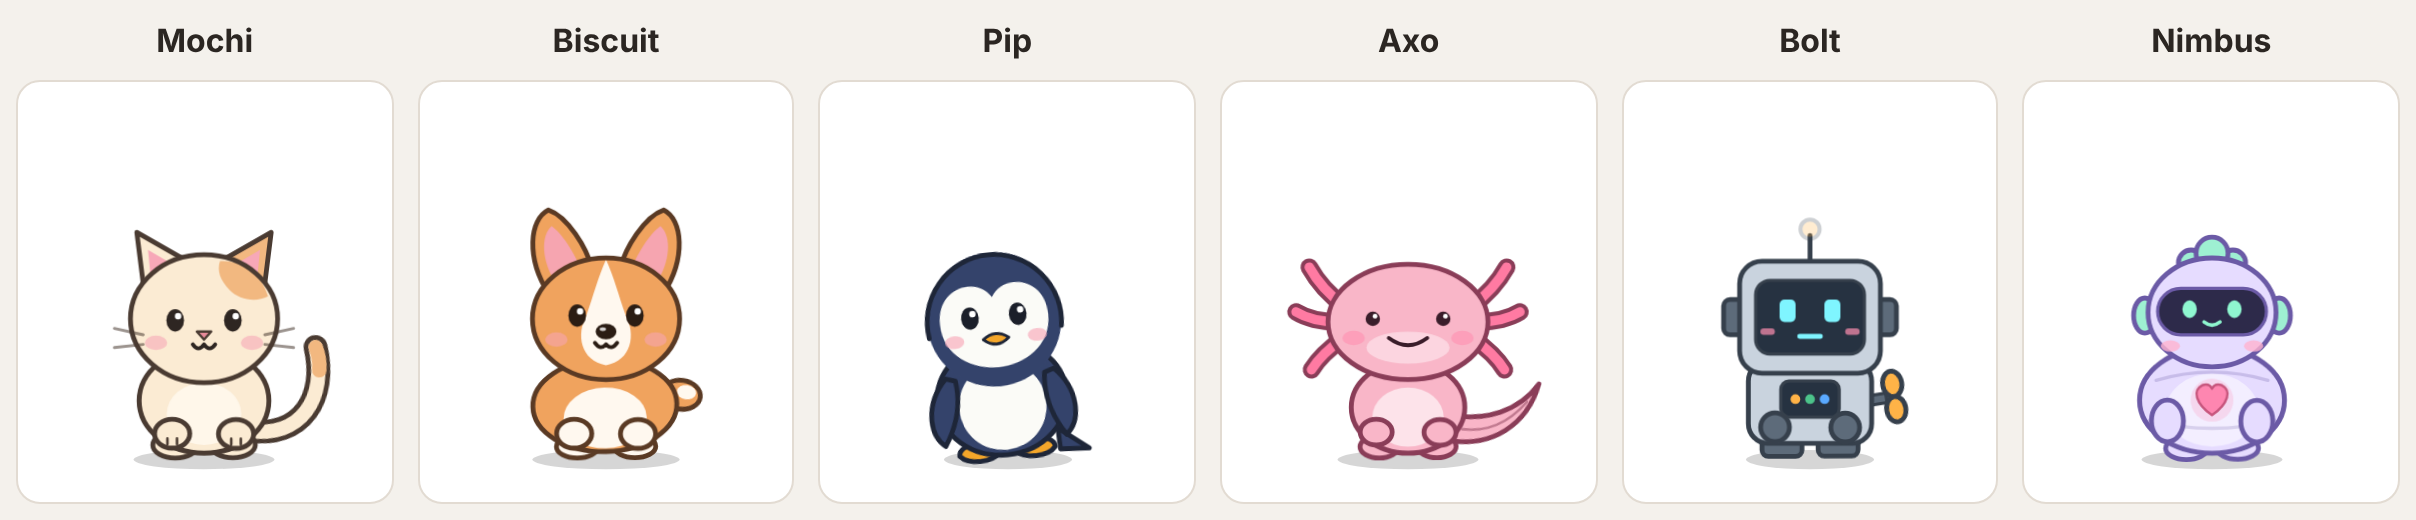
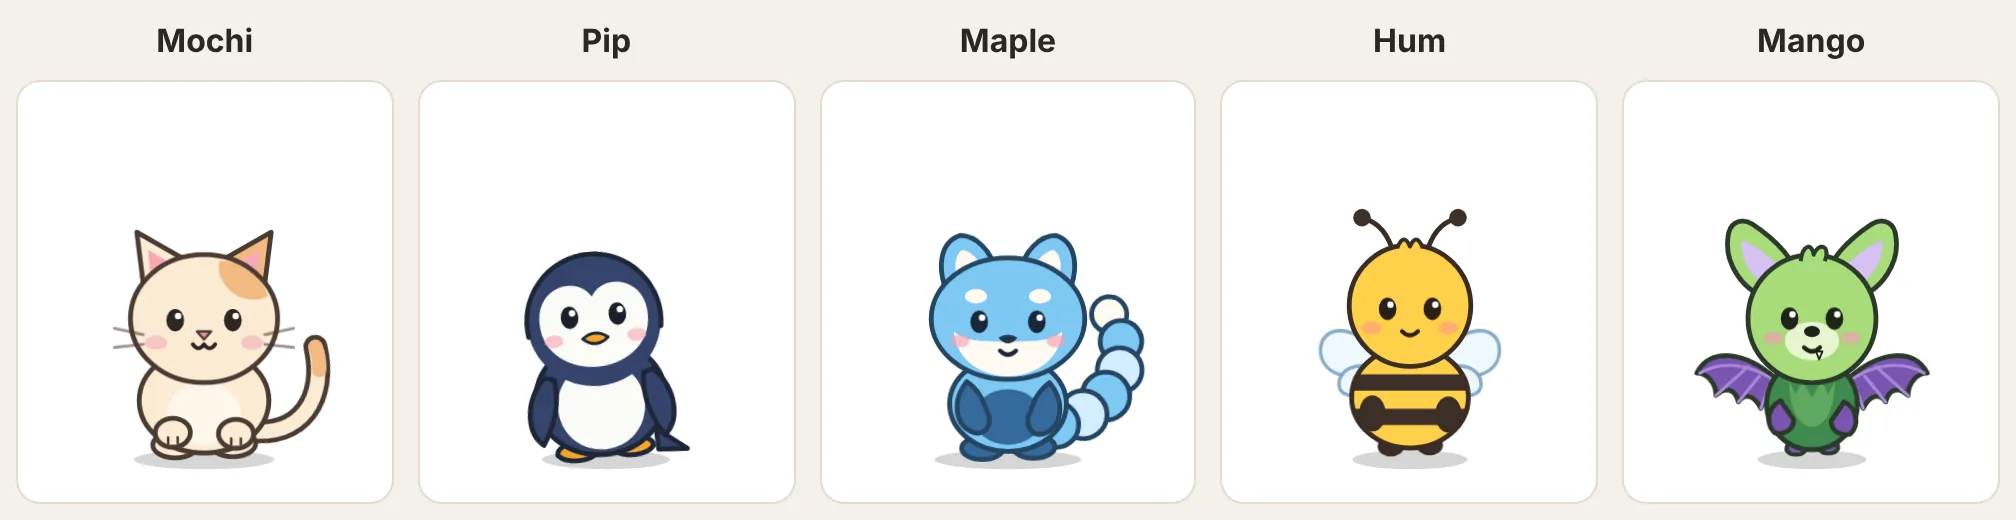
docs: show the new pets in the README
The README's pets table and picture now show the five: Mochi, Pip,
Maple, Hum and Mango, rendered from the browser preview. The feature
list and the project layout say five pets. ROADMAP's canonical pet
table lists the new ids and notes which four were removed.

Claude-Session: https://claude.ai/code/session_01KQunWhEeEyc4s8eWW5a3Ju

diff --git a/README.md b/README.md
@@ -35,21 +35,20 @@ and [REVIEW.md](REVIEW.md).
   battery icon in the corner and points at it. Click it to open battery settings.
 - **Quick hide.** Press **Ctrl+Alt+P** (or use the tray) to put the pet away, and again to
   bring it back. It keeps up with what's going on while hidden.
-- **Six pets to choose from**, with an optional daily shuffle.
+- **Five pets to choose from**, with an optional daily shuffle.
 - **A browser preview** that shows every pet in every animation, with no Windows needed.
 
 ## Pets
 
-![The six pets: Mochi, Biscuit, Pip, Axo, Bolt and Nimbus](docs/images/pets.webp)
+![The five pets: Mochi, Pip, Maple, Hum and Mango](docs/images/pets.webp)
 
 | Pet | Name | Looks like |
 |---|---|---|
 | Cat | Mochi | A cream calico with an orange patch and a curly tail |
-| Corgi | Biscuit | An orange-and-white corgi with big ears and a stubby tail |
 | Penguin | Pip | A round navy penguin with orange feet |
-| Axolotl | Axo | A pink axolotl with frilly gills and a long tail |
-| Robot | Bolt | A boxy grey robot with a screen face, an antenna and a wind-up key |
-| Soft care-bot | Nimbus | A soft lavender bot with an LED visor, a cloud crest and a glowing heart |
+| Blue panda | Maple | A sky-blue panda with a big bubbly ringed tail, a white face mask and deep blue socks |
+| Bumblebee | Hum | A round fuzzy bee with two stripes, antennae and glassy wings that buzz |
+| Fruit bat | Mango | A green fruit bat with big ears, purple wings and a little fang |
 
 Pick one in **Settings → Your pet** or from the tray's **Pet** menu, or turn on **A
 different pet every day**. Every pet has all 19 animations.
@@ -472,7 +471,7 @@ The stage also accepts URL options, for example
 ```
 src/core/       Pure logic shared by everything (no Node, Electron or DOM imports):
                 the mood engine, moods, walker, path matching, app rules, config schema
-src/renderer/   What you see: the pet rig, the six pets, props, animations, the
+src/renderer/   What you see: the pet rig, the five pets, props, animations, the
                 controller that walks the pet, and the desktop window's page
 src/main/       Electron main process: lifecycle, the pet window, the app:// protocol
                 and security, config storage, the tray, and the event bus

diff --git a/ROADMAP.md b/ROADMAP.md
@@ -76,16 +76,18 @@ concepts. The lineup becomes five: Mochi and Pip stay, and three new ones join.
 
 ## What we're building
 
-### Pets (6)
+### Pets (5)
 
 | ID | Name | Look | Signature touch |
 |---|---|---|---|
 | `cat` | Mochi | Round cream cat | Tail swish, ear twitch |
-| `corgi` | Biscuit | Orange-and-white corgi | Butt wiggle, big floppy ears |
 | `penguin` | Pip | Small penguin | Waddle walk, flipper flaps |
-| `axolotl` | Axo | Pink axolotl | Gill fronds wave |
-| `robot` | Bolt | Boxy tin robot | Blinking antenna light |
-| `softbot` | Nimbus | Original inflatable care-bot: pale lavender, LED visor face, glowing chest heart | Puffs up and deflates; its heart beats faster while Claude works |
+| `bluepanda` | Maple | Sky-blue panda with a bubbly ringed tail and a white face mask | Tail swish with a flick |
+| `bee` | Hum | Round striped bumblebee with antennae and glassy wings | Wings buzz; bobs as it flies along |
+| `bat` | Mango | Green fruit bat with big ears, purple wings and a little fang | Wings flutter; wraps them round itself to sleep |
+
+Until the lineup change after M13 there were six: `corgi` Biscuit, `axolotl` Axo, `robot`
+Bolt and `softbot` Nimbus have gone, and Maple, Hum and Mango have joined.
 
 All pets are original designs. They're drawn as SVG built from the same set of named
 parts (body, head, eyes, mouth, legs, tail and so on), so every animation works for every pet.
